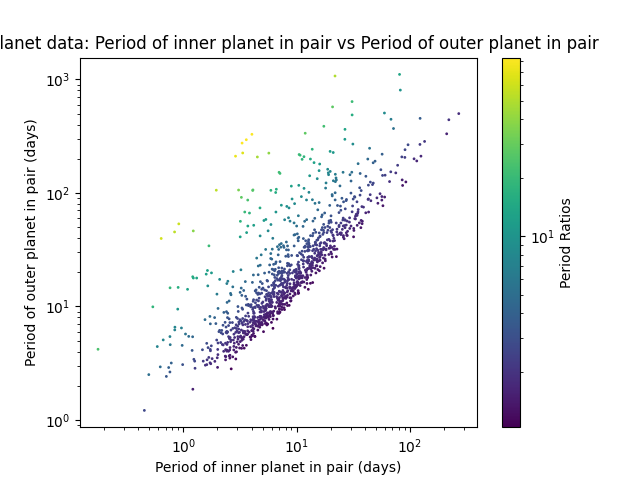
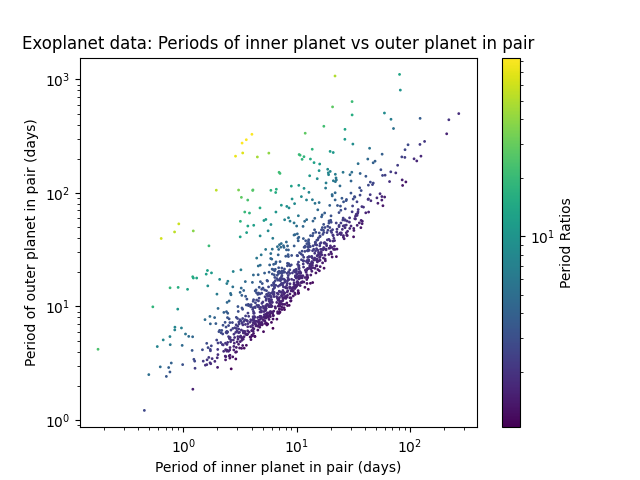
idk but these were different lol

Changed region(s): [[0.0, 0.0625, 0.9375, 0.125]]

diff --git a/period_ratio_plot.py b/period_ratio_plot.py
@@ -1,6 +1,7 @@
 import matplotlib.pyplot as plt
 import pandas
 from matplotlib.colors import LogNorm
+from matplotlib.ticker import LogFormatter
 
 exoplanet_multiplanetsystem_ratios = pandas.read_csv('exoplanet_multiplanetsystem_ratios.csv')
 df = exoplanet_multiplanetsystem_ratios[['KOI_inner','Period_inner','KOI_outer','Period_outer','Period Ratios']]
@@ -11,5 +12,5 @@ plt.xlabel('Period of inner planet in pair (days)')
 plt.ylabel('Period of outer planet in pair (days)')
 plt.xscale('log')
 plt.yscale('log')
-plt.title('Exoplanet data: Period of inner planet in pair vs Period of outer planet in pair')
+plt.title('Exoplanet data: Periods of inner planet vs outer planet in pair')
 plt.show()
